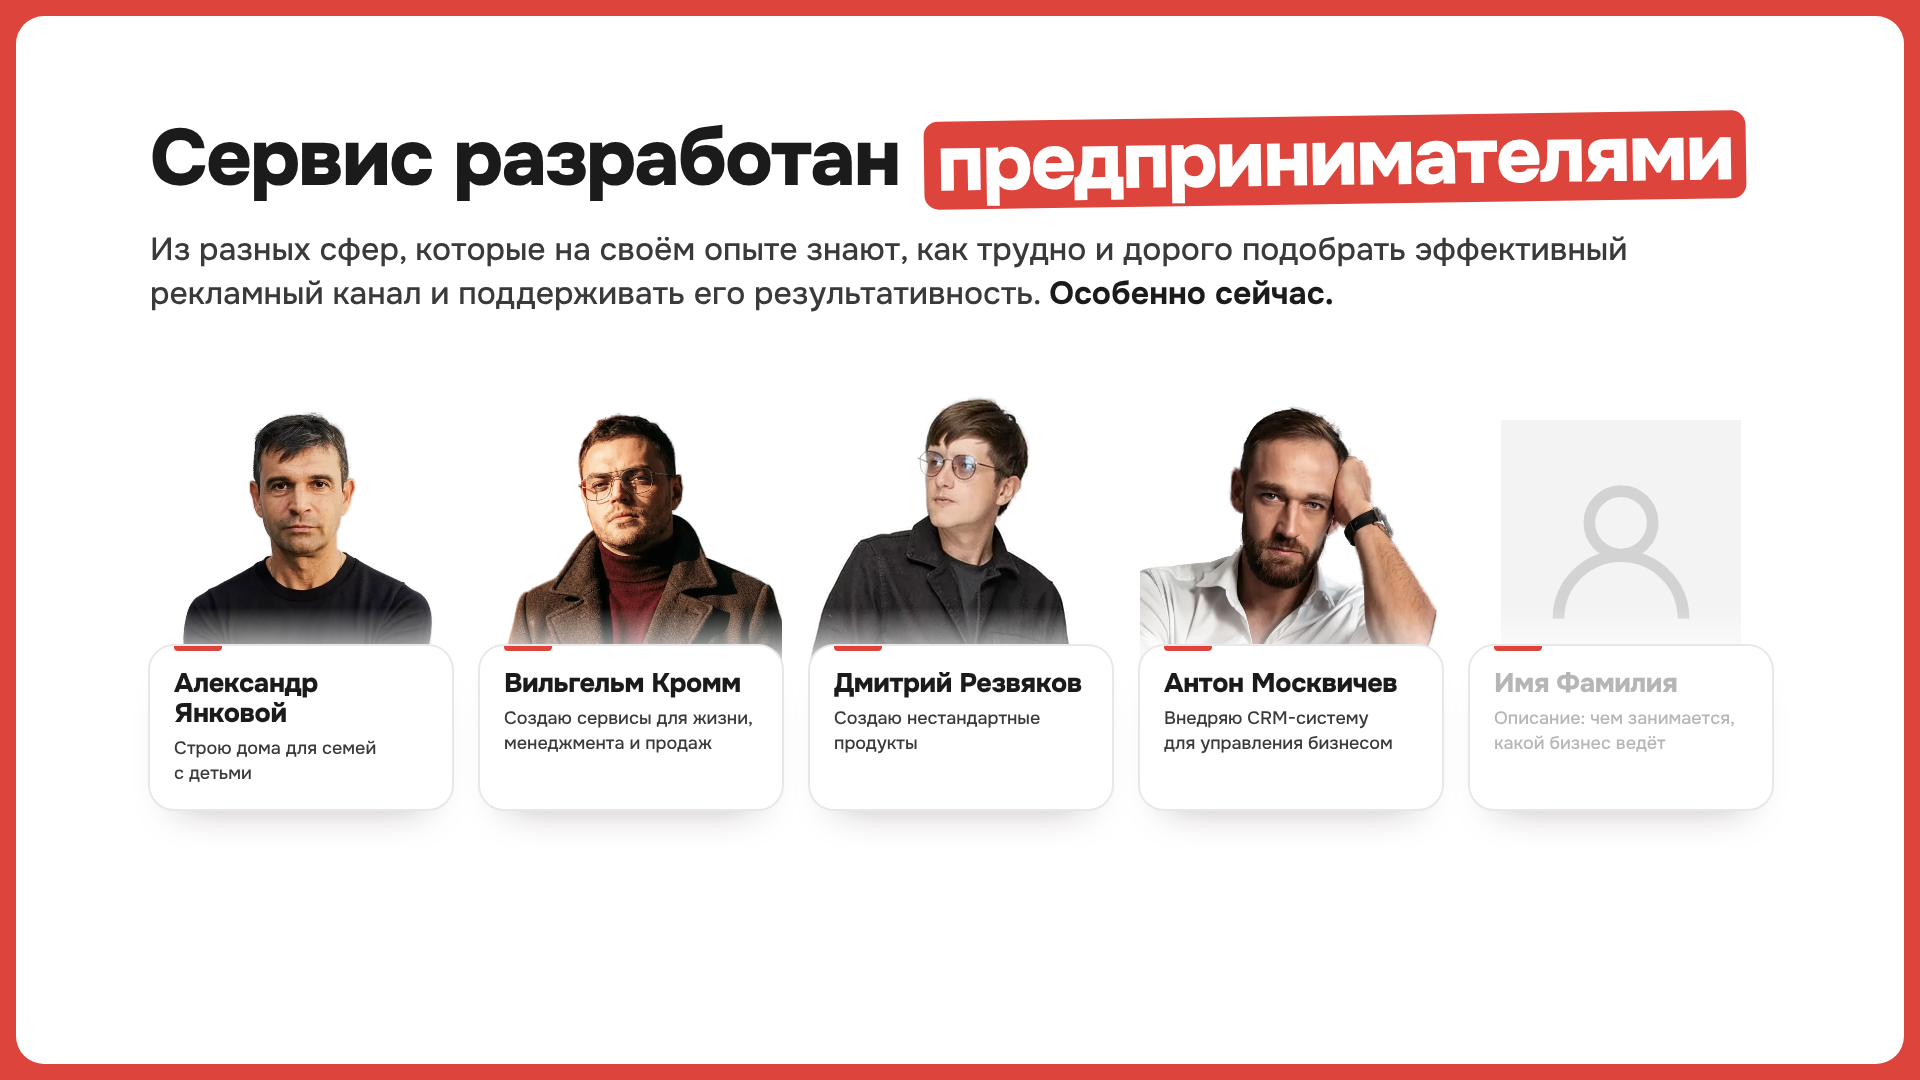
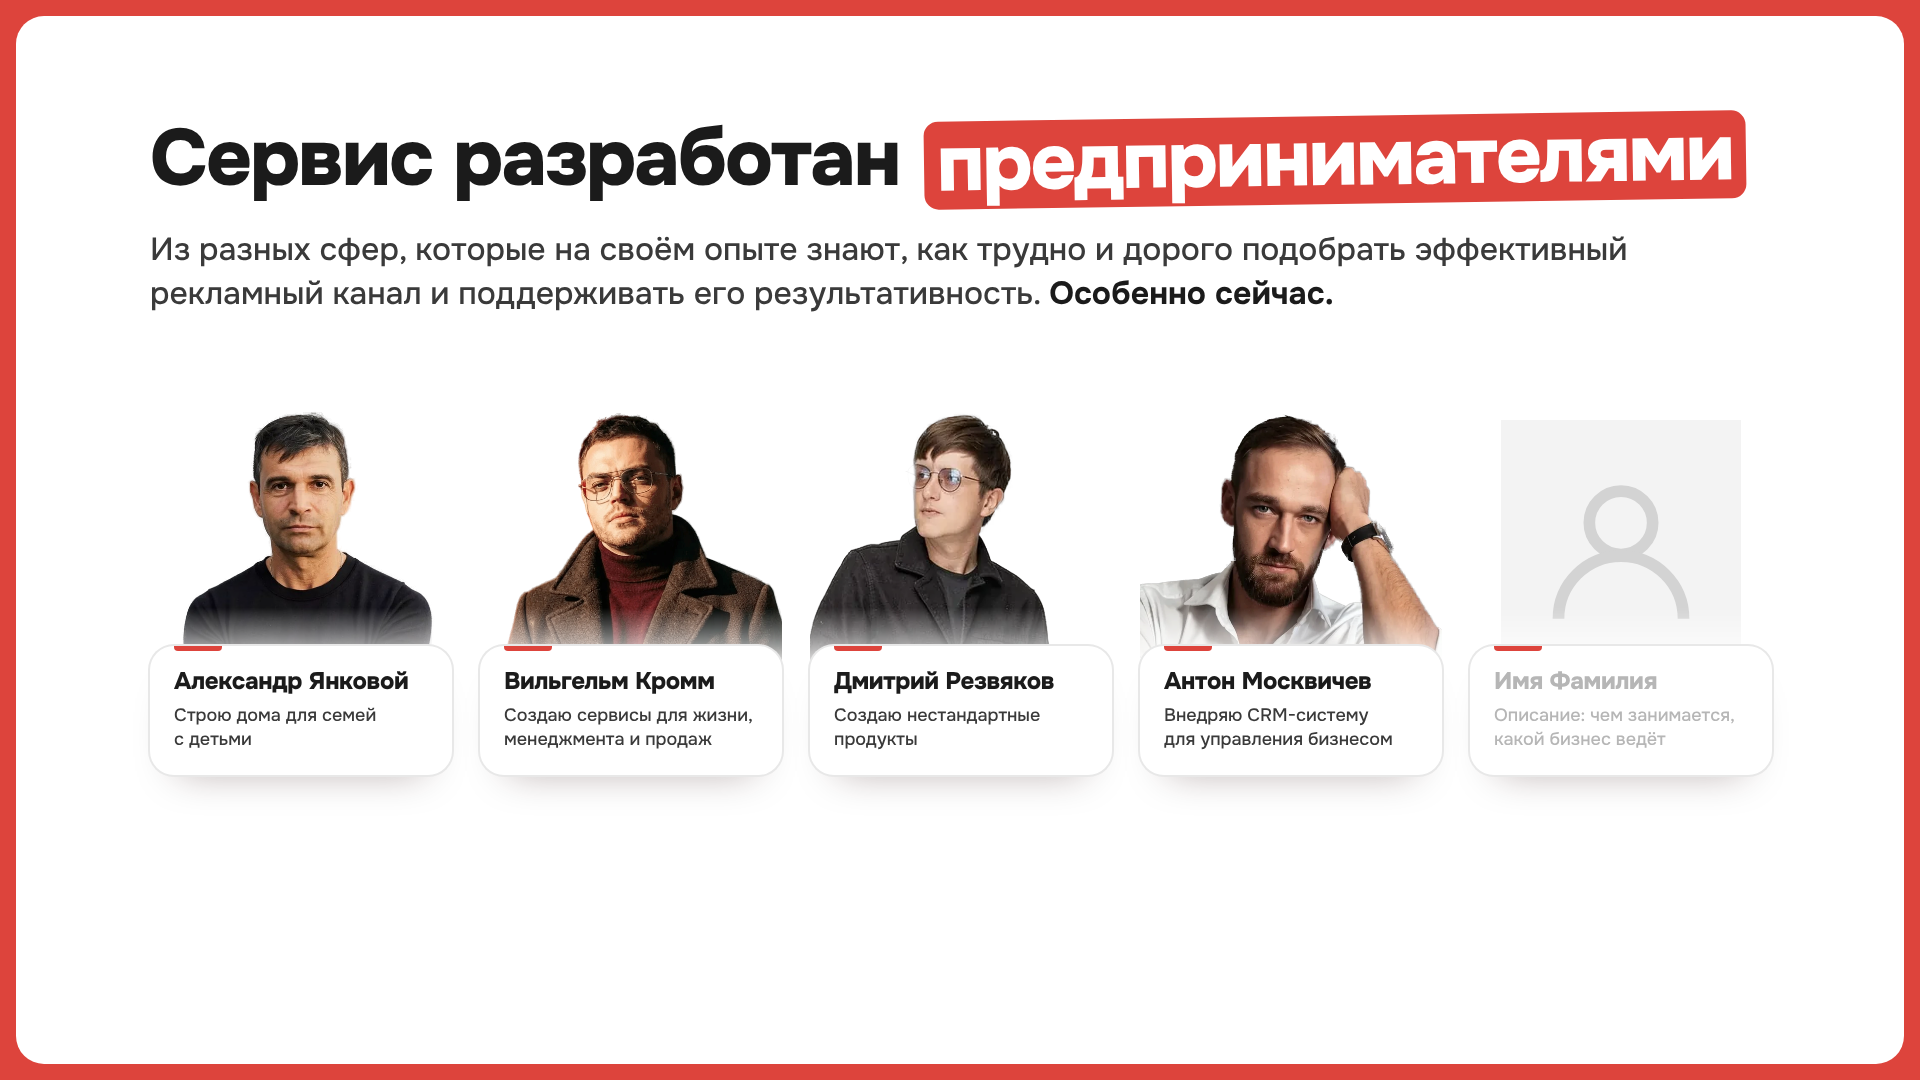
Презентация v3: команда — головы одного размера на одной линии, имя в одну строку, описание в две
Claude-Session: https://claude.ai/code/session_01Snvup9eyYcWggZAX2KLTqV

diff --git a/social-kit/deck-v3.html b/social-kit/deck-v3.html
@@ -335,8 +335,8 @@ a{color:inherit;text-decoration:none}
 .mate__ph--pk{background-size:70%;background-position:center 40%}
 .mate__c{position:relative;margin-top:-26px;flex:1;padding:22px 24px 24px;border-radius:24px;background:#fff;box-shadow:0 0 0 2px var(--line),0 24px 40px -28px rgba(40,10,8,.35)}
 .mate__c::before{content:"";position:absolute;left:24px;top:0;width:48px;height:5px;border-radius:0 0 4px 4px;background:var(--brand)}
-.mate__n{font-size:27px;font-weight:800;letter-spacing:-.015em;line-height:1.12}
-.mate__r{margin-top:8px;font-size:18px;font-weight:500;line-height:1.35;color:#3A3A3A}
+.mate__n{white-space:nowrap;font-size:24px;font-weight:800;letter-spacing:-.015em;line-height:1.12}
+.mate__r{margin-top:8px;min-height:2.7em;font-size:18px;font-weight:500;line-height:1.35;color:#3A3A3A}
 
 /* ==========================================================================
    7а. Одно предложение — несколько площадок (переделан 08.10)
